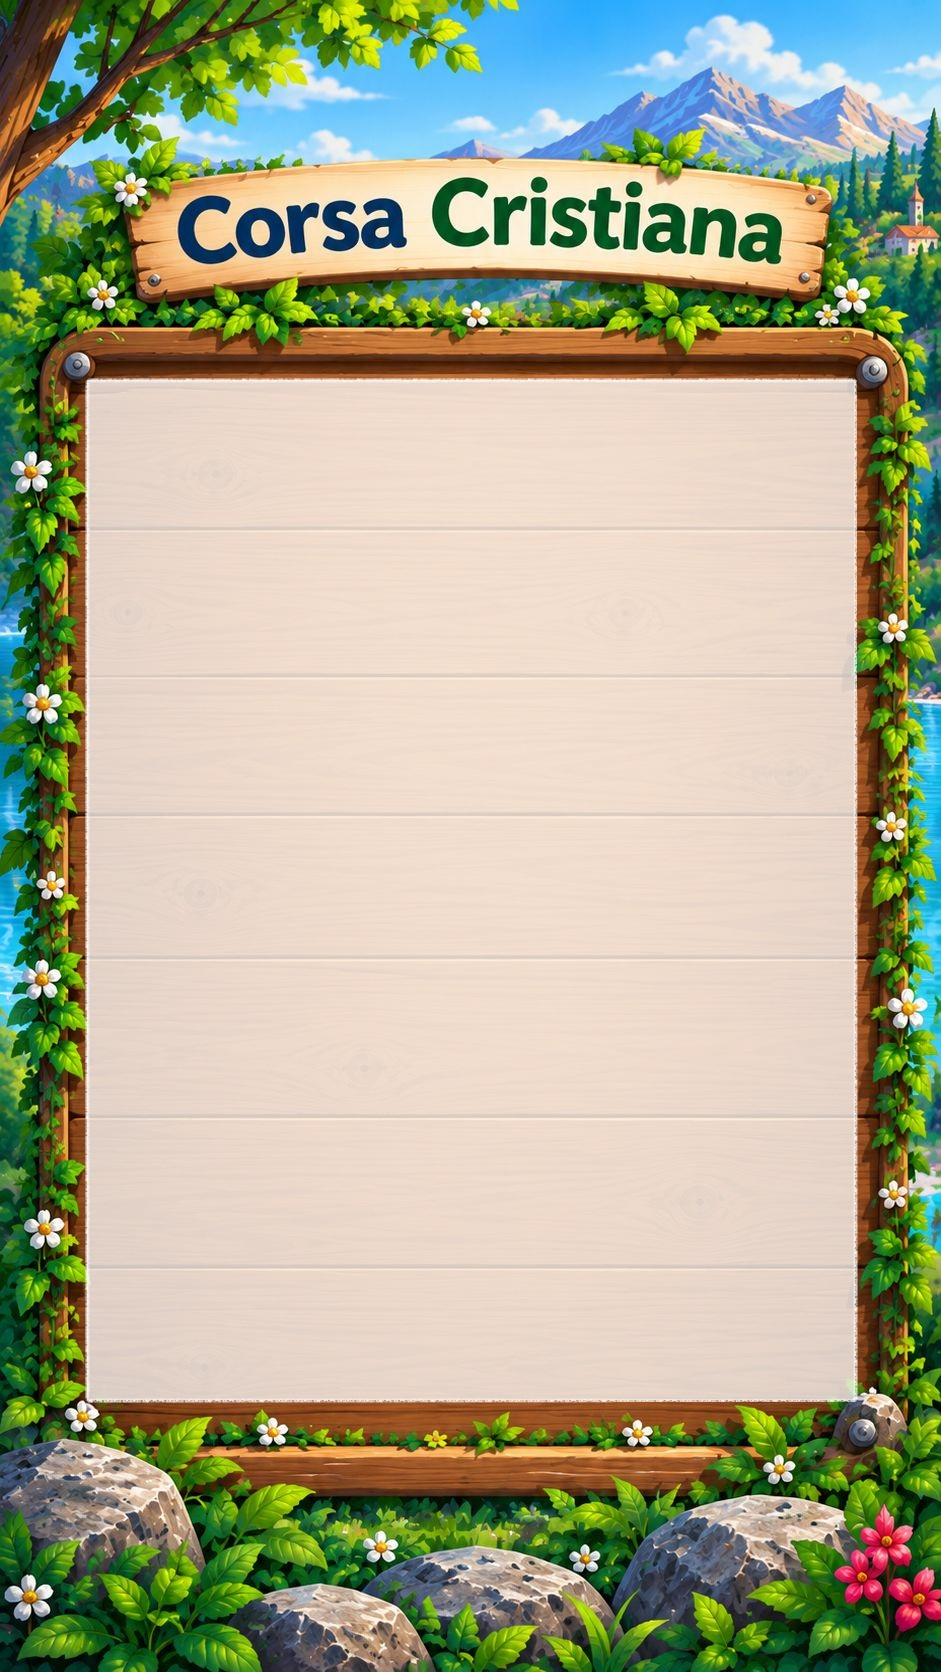
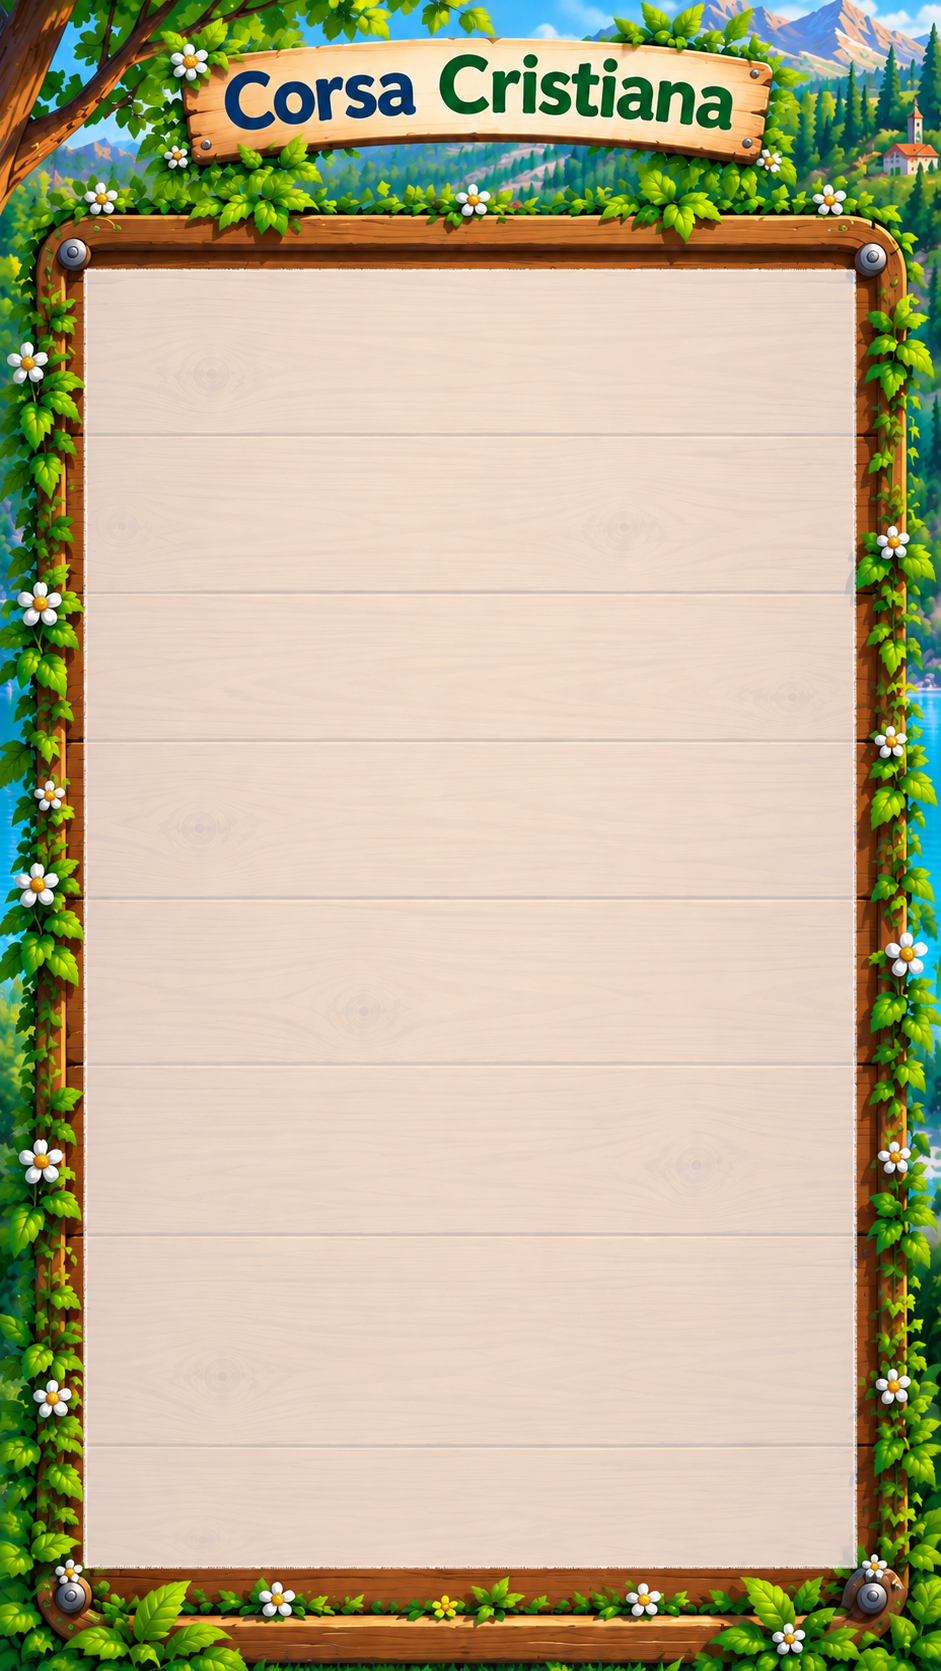
Grafica telefono aggiornata: schermo più alto per più spazio alle domande

diff --git a/css/giocatore.css b/css/giocatore.css
@@ -10,8 +10,8 @@ body {
 
 #scena {
   position: relative;
-  width: min(100vw, calc(100vh * 941 / 1672));
-  aspect-ratio: 941 / 1672;
+  width: min(100vw, calc(100vh * 941 / 1772));
+  aspect-ratio: 941 / 1772;
   margin: 0 auto;
   background-image: url('../img/sfondo-telefono.jpg');
   background-size: cover;
@@ -20,10 +20,10 @@ body {
 
 #pannello-contenuto {
   position: absolute;
-  left: 9%;
-  top: 25%;
-  width: 82%;
-  height: 58%;
+  left: 5%;
+  top: 17%;
+  width: 89%;
+  height: 77%;
   box-sizing: border-box;
   padding: 0.8rem 1rem;
   overflow-y: auto;
@@ -156,7 +156,7 @@ button {
   overflow-y: auto;
   margin: 0.5rem 0;
   background: white;
-  padding: 0.5rem;
+  padding: 0.1rem;
   border-radius: 6px;
 }
 
@@ -318,13 +318,13 @@ button {
 
 
 .bottone-abbandona {
-  margin-top: 2rem;
+  margin-top: 3rem;
   background: none;
   border: none;
-  color: #999;
-  text-decoration: underline;
-  font-size: 0.85rem;
-  font-weight: normal;
+  color: #ec0909;
+  text-decoration:underline;
+  font-size: 0.95rem;
+  font-weight:bold;
   box-shadow: none;
   padding: 0.5rem;
 }

diff --git a/js/tabellone-ui.js b/js/tabellone-ui.js
@@ -28,7 +28,8 @@ import {
   leggiConfigDaFirebase,
   aggiungiRispostaACarta,
   rifiutaJuniorInLobby,
-  ascoltaPresenza
+  ascoltaPresenza,
+  ascoltaAbbandoni
 } from './sincronizzazione.js';
 
 const DURATA_SALTO_MS = 300;
